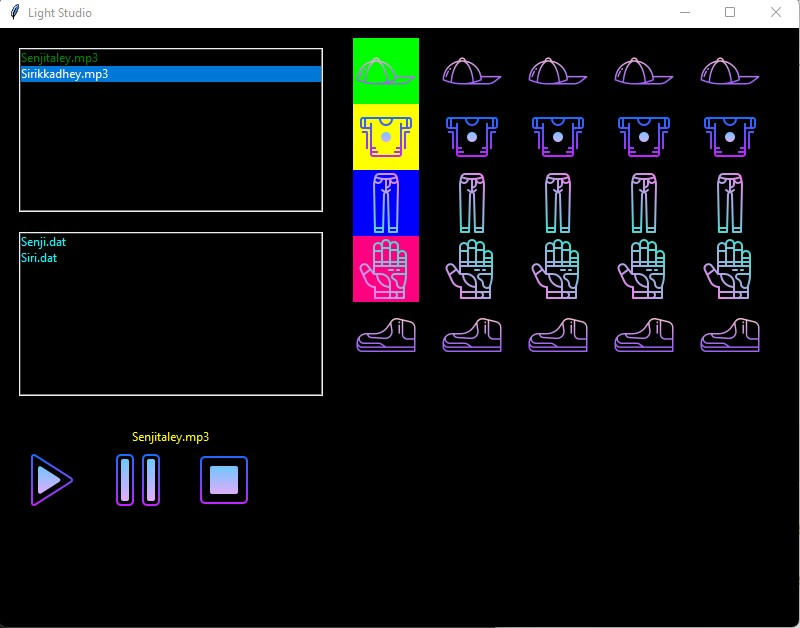
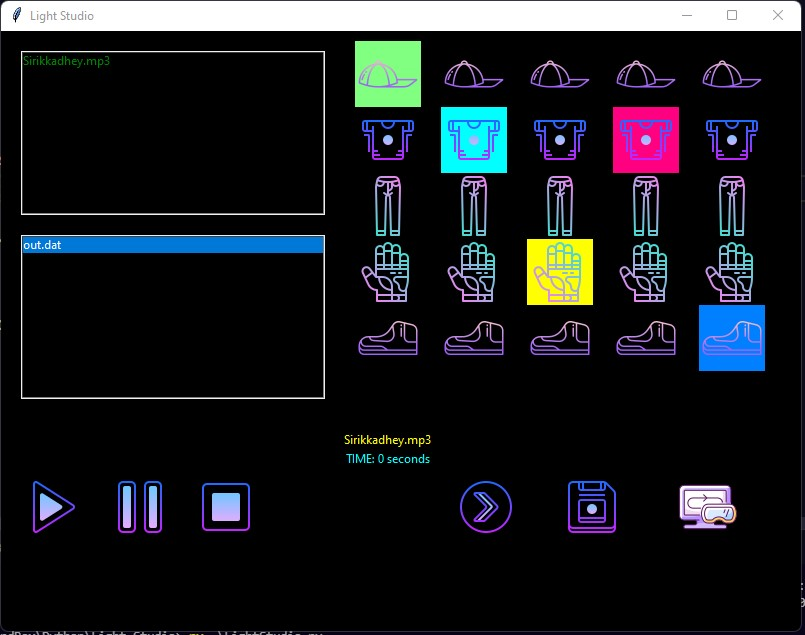
implemented person as class and added timestamps

diff --git a/Python/Light Studio/LightStudio.py b/Python/Light Studio/LightStudio.py
@@ -1,25 +1,89 @@
-from ast import walk
-from msilib.schema import ListBox
-from tkinter import *
+from abc import abstractmethod, abstractstaticmethod
+from ast import List
 import tkinter as tk
 import os
-from tkinter import colorchooser
-from turtle import left
 from pygame import mixer
-
+from tkinter import colorchooser
 time = 0
 colorData = []
-hatColour = []
-shirtColour = []
-pantColour = []
-gloveColour = []
-shoeColour = []
+
+class IPerson:
+    
+    @abstractmethod
+    def getData(self) -> list:
+        """implemented in person"""
+class Person(IPerson):
+    canvas = None
+
+    def __init__(self,frame) -> None:
+        self.capColour = [0,0,0]
+        self.shirtColour = [0,0,0]
+        self.pantColour = [0,0,0]
+        self.gloveColour = [0,0,0]
+        self.shoeColour = [0,0,0]
+        self.capKey   = '#000000'
+        self.shirtKey = '#000000'
+        self.pantKey  = '#000000'
+        self.gloveKey = '#000000'
+        self.shoeKey  = '#000000'
+
+        self.capImg   =  tk.PhotoImage(file="cap.png")
+        self.shirtImg =  tk.PhotoImage(file="shirt.png")
+        self.shoeImg  =  tk.PhotoImage(file="shoe.png")
+        self.gloveImg =  tk.PhotoImage(file="glove.png")
+        self.pantImg  =  tk.PhotoImage(file="pant.png")
+
+        self.capButton   = tk.Button(frame, text="h",image=self.capImg, bg = "black", borderwidth=0,   command=self.capColorPciker)
+        self.shirtButton = tk.Button(frame, text="s",image=self.shirtImg, bg = "black", borderwidth=0, command=self.shirtColorPciker)
+        self.pantButton  = tk.Button(frame, text="p",image=self.pantImg, bg = "black", borderwidth=0,  command=self.pantColorPciker)
+        self.gloveButton = tk.Button(frame, text="g",image=self.gloveImg, bg = "black", borderwidth=0, command=self.gloveColorPciker)
+        self.shoeButton  = tk.Button(frame, text="s",image=self.shoeImg, bg = "black", borderwidth=0,  command=self.shoeColorPciker)
+
+        self.capButton.pack()   
+        self.shirtButton.pack()
+        self.pantButton.pack()
+        self.gloveButton.pack()
+        self.shoeButton.pack()
+
+    def capColorPciker(self) -> None:
+        self.capColour, self.capKey = colorchooser.askcolor()
+        self.capButton.config(bg=self.capKey)
+        Person.canvas.update()
+
+    def shirtColorPciker(self) -> None:
+        self.shirtColour, self.shirtKey = colorchooser.askcolor()
+        self.shirtButton.config(bg=self.shirtKey)
+        Person.canvas.update()
+
+    def pantColorPciker(self) -> None:
+        self.pantColour, self.pantKey = colorchooser.askcolor()
+        self.pantButton.config(bg=self.pantKey)
+        Person.canvas.update()
+
+    def gloveColorPciker(self) -> None:
+        self.gloveColour, self.gloveKey = colorchooser.askcolor()
+        self.gloveButton.config(bg=self.gloveKey)
+        Person.canvas.update()
+        
+    def shoeColorPciker(self) -> None:
+        self.shoeColour, self.shoeKey = colorchooser.askcolor()
+        self.shoeButton.config(bg=self.shoeKey)
+        Person.canvas.update()
+
+    def getData(self) -> list:
+        colorList = []
+        colorList.append({self.capKey:self.capColour})
+        colorList.append({self.shirtKey:self.shirtColour})
+        colorList.append({self.pantKey:self.pantColour})
+        colorList.append({ self.gloveKey:self.gloveColour})
+        colorList.append({self.shoeKey:self.shoeColour})
+        return colorList
 
 '''
-def hatColorPciker():
-    global hatColour
-    hatColour, color = colorchooser.askcolor()
-    hatLabel.config(bg=color)
+def capColorPciker():
+    global capColour
+    capColour, color = colorchooser.askcolor()
+    capLabel.config(bg=color)
     root.update()
 
 def shirtColorPciker():
@@ -49,7 +113,7 @@ def shoeColorPciker():
 def saveTime():
     global time
     data = []
-    data.append(hatColour)
+    data.append(capColour)
     data.append(shirtColour)
     data.append(pantColour)
     data.append(gloveColour)
@@ -70,8 +134,8 @@ root = Tk()
 root.title("Light Studio")
 root.geometry("400x400")
 
-hatLabel = Label(root, text="Hat Colour")
-hatButton = Button(root, text = "Choose hat Colour", command = hatColorPciker)
+capLabel = Label(root, text="cap Colour")
+capButton = Button(root, text = "Choose cap Colour", command = capColorPciker)
 
 
 shirtLabel = Label(root, text="shirt Colour")
@@ -94,8 +158,8 @@ timeButton = Button(root, text = "Next Frame", command = saveTime)
 
 saveButton = Button(root, text = "Save Data", command = saveData)
 
-hatLabel.pack()
-hatButton.pack()
+capLabel.pack()
+capButton.pack()
 shirtLabel.pack()
 shirtButton.pack()
 pantLabel.pack()
@@ -115,30 +179,6 @@ mp3Files = []
 datFiles = []
 
 playing = False
-def hatColorPciker():
-    hatColour, color = colorchooser.askcolor()
-    f1b1.config(bg=color)
-    canvas.update()
-
-def shirtColorPciker():
-    shirtColour, color = colorchooser.askcolor()
-    f1b2.config(bg=color)
-    canvas.update()
-
-def pantColorPciker():
-    pantColour, color = colorchooser.askcolor()
-    f1b3.config(bg=color)
-    canvas.update()
-
-def gloveColorPciker():
-    gloveColour, color = colorchooser.askcolor()
-    f1b4.config(bg=color)
-    canvas.update()
-    
-def shoeColorPciker():
-    shoeColour, color = colorchooser.askcolor()
-    f1b5.config(bg=color)
-    canvas.update()
 
 def playCmd() -> None:
     global playing
@@ -160,25 +200,42 @@ def stopCmd() -> None:
     songBox.select_clear('active')
     playing= False
 
+def saveTime():
+    global time
+    time += 1
+    data = []
+    for person in persons:
+        data.append(person.getData())
+    #print(data) ##commented for debugging
+    colorData.append(data)
+    timeLabel.config(text="TIME: {0} seconds".format(time))
+    canvas.update()
+
+def saveData():
+    with open("out.dat", "w") as file:
+        for data in colorData:
+            file.write(str(data)+ "\n")
+
+def simCmd() -> None:
+    pass
+
 for r, fo, fi in os.walk(os.getcwd()):
     mp3Files = [file for file in fi  if file.find(".mp3") != -1]
     datFiles = [file for file in fi  if file.find(".dat") != -1]
 
-canvas = Tk()
+canvas = tk.Tk()
 canvas.title("Light Studio")
 canvas.geometry("800x600")
 canvas.config(bg='black')
 
 mixer.init()
 
-playImg = PhotoImage(file="play.png")
-pauseImg = PhotoImage(file="pause.png")
-stopImg = PhotoImage(file="stop.png")
-capImg =  PhotoImage(file="cap.png")
-shirtImg =  PhotoImage(file="shirt.png")
-shoeImg =  PhotoImage(file="shoe.png")
-gloveImg =  PhotoImage(file="glove.png")
-pantImg =  PhotoImage(file="pant.png")
+playImg  = tk.PhotoImage(file="play.png")
+pauseImg = tk.PhotoImage(file="pause.png")
+stopImg  = tk.PhotoImage(file="stop.png")
+simImg   = tk.PhotoImage(file="sim.png")
+saveImg  = tk.PhotoImage(file="save.png")
+nextImg  = tk.PhotoImage(file="next.png")
 
 f0 = tk.Frame(canvas,padx=10, pady=10,bg= "black")
 f1 = tk.Frame(canvas,padx=10, pady=10,bg= "black")
@@ -194,87 +251,45 @@ f2.grid(row=0,column=2, sticky="nsew")
 f3.grid(row=0,column=3, sticky="nsew")
 f4.grid(row=0,column=4, sticky="nsew")
 f5.grid(row=0,column=5, sticky="nsew")
-f6.grid(row=1, sticky="nsew")
+f6.grid(row=1,columnspan=6, sticky="nsew")
 
 #try anchor
-songBox = Listbox(f0, fg = "green", bg ="black", width=50)
+songBox = tk.Listbox(f0, fg = "green", bg ="black", width=50)
 songBox.pack(padx=10, pady=10)
 
-datBox = Listbox(f0, fg = "cyan", bg ="black", width=50)
+datBox = tk.Listbox(f0, fg = "cyan", bg ="black", width=50)
 datBox.pack(padx=10, pady=10)
 
-songLabel = Label(f6, text="", fg = "yellow", bg ="black")
+songLabel = tk.Label(f6, text="", fg = "yellow", bg ="black")
 songLabel.pack()
 
+timeLabel  = tk.Label(f6, text="TIME: {0} seconds".format(time), bg="black", fg="cyan", borderwidth=0)
+nextButton = tk.Button(f6, text = "Next Frame", command = saveTime, image=nextImg, bg="black", fg="white", borderwidth=0)
+saveButton = tk.Button(f6, text = "Save Data" , command = saveData, image=saveImg, bg="black", fg="white", borderwidth=0)
+simButton  = tk.Button(f6, text = "Play"      , command = simCmd, image=simImg, bg = "black", fg="white", borderwidth=0)
 
-## 5 person
-f1b1 = tk.Button(f1, text="h",image=capImg, bg = "black", borderwidth=0, command=hatColorPciker)
-f1b2 = tk.Button(f1, text="s",image=shirtImg, bg = "black", borderwidth=0, command=shirtColorPciker)
-f1b3 = tk.Button(f1, text="p",image=pantImg, bg = "black", borderwidth=0, command=pantColorPciker)
-f1b4 = tk.Button(f1, text="g",image=gloveImg, bg = "black", borderwidth=0, command=gloveColorPciker)
-f1b5 = tk.Button(f1, text="s",image=shoeImg, bg = "black", borderwidth=0, command=shoeColorPciker)
+playButton  = tk.Button(f6, text = "Play", command=playCmd, image=playImg, bg = "black", borderwidth=0)
+pauseButton = tk.Button(f6, text = "Pause", command=pauseCmd, image=pauseImg, bg = "black", borderwidth=0)
+stopButton  = tk.Button(f6, text = "Stop", command=stopCmd, image=stopImg, bg = "black", borderwidth=0)
 
-f2b1 = tk.Button(f2, text="h",image=capImg, bg = "black", borderwidth=0)
-f2b2 = tk.Button(f2, text="s",image=shirtImg, bg = "black", borderwidth=0)
-f2b3 = tk.Button(f2, text="p",image=pantImg, bg = "black", borderwidth=0)
-f2b4 = tk.Button(f2, text="g",image=gloveImg, bg = "black", borderwidth=0)
-f2b5 = tk.Button(f2, text="s",image=shoeImg, bg = "black", borderwidth=0)
-
-f3b1 = tk.Button(f3, text="h",image=capImg, bg = "black", borderwidth=0)
-f3b2 = tk.Button(f3, text="s",image=shirtImg, bg = "black", borderwidth=0)
-f3b3 = tk.Button(f3, text="p",image=pantImg, bg = "black", borderwidth=0)
-f3b4 = tk.Button(f3, text="g",image=gloveImg, bg = "black", borderwidth=0)
-f3b5 = tk.Button(f3, text="s",image=shoeImg, bg = "black", borderwidth=0)
-
-f4b1 = tk.Button(f4, text="h",image=capImg, bg = "black", borderwidth=0)
-f4b2 = tk.Button(f4, text="s",image=shirtImg, bg = "black", borderwidth=0)
-f4b3 = tk.Button(f4, text="p",image=pantImg, bg = "black", borderwidth=0)
-f4b4 = tk.Button(f4, text="g",image=gloveImg, bg = "black", borderwidth=0)
-f4b5 = tk.Button(f4, text="s",image=shoeImg, bg = "black", borderwidth=0)
-
-f5b1 = tk.Button(f5, text="h",image=capImg, bg = "black", borderwidth=0)
-f5b2 = tk.Button(f5, text="s",image=shirtImg, bg = "black", borderwidth=0)
-f5b3 = tk.Button(f5, text="p",image=pantImg, bg = "black", borderwidth=0)
-f5b4 = tk.Button(f5, text="g",image=gloveImg, bg = "black", borderwidth=0)
-f5b5 = tk.Button(f5, text="s",image=shoeImg, bg = "black", borderwidth=0)
-
-playButton = Button(f6, text = "Play", command=playCmd, image=playImg, bg = "black", borderwidth=0)
-pauseButton = Button(f6, text = "Pause", command=pauseCmd, image=pauseImg, bg = "black", borderwidth=0)
-stopButton = Button(f6, text = "Stop", command=stopCmd, image=stopImg, bg = "black", borderwidth=0)
-
+timeLabel.pack()
 playButton.pack(padx=10, side="left")
 pauseButton.pack(padx=10, side="left")
 stopButton.pack(padx=10, side="left")
 
-f1b1.pack()
-f1b2.pack()
-f1b3.pack()
-f1b4.pack()
-f1b5.pack()
+simButton.pack(padx=20,side="right")
+saveButton.pack(padx=20,side="right")
+nextButton.pack(padx=20,side="right")
+## 5 person
 
-f2b1.pack()
-f2b2.pack()
-f2b3.pack()
-f2b4.pack()
-f2b5.pack()
+Person.canvas = canvas
 
-f3b1.pack()
-f3b2.pack()
-f3b3.pack()
-f3b4.pack()
-f3b5.pack()
-
-f4b1.pack()
-f4b2.pack()
-f4b3.pack()
-f4b4.pack()
-f4b5.pack()
-
-f5b1.pack()
-f5b2.pack()
-f5b3.pack()
-f5b4.pack()
-f5b5.pack()
+p1 = Person(f1)
+p2 = Person(f2)
+p3 = Person(f3)
+p4 = Person(f4)
+p5 = Person(f5)
+persons = [p1,p2,p3,p4,p5]
 
 for song in mp3Files:
     songBox.insert('end', song)
